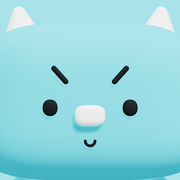
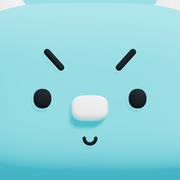
파비콘(투명 배경 깨두 머리) 추가, 앱 아이콘 정면 얼굴로
Claude-Session: https://claude.ai/code/session_01XV2fnkdfGEfNAj3q2V9NTe

diff --git a/index.html b/index.html
@@ -8,8 +8,8 @@
 <meta name="theme-color" content="#e4ebeb" media="(prefers-color-scheme: light)">
 <meta name="theme-color" content="#141a1c" media="(prefers-color-scheme: dark)">
 <link rel="manifest" href="manifest.webmanifest">
-<link rel="icon" href="icon-192.png?v=2" type="image/png">
-<link rel="apple-touch-icon" href="apple-touch-icon.png?v=2">
+<link rel="icon" href="favicon.ico?v=1" sizes="any"><link rel="icon" href="favicon.png?v=1" type="image/png">
+<link rel="apple-touch-icon" href="apple-touch-icon.png?v=3">
 <meta name="apple-mobile-web-app-capable" content="yes">
 <meta name="apple-mobile-web-app-title" content="Sonssies">
 <meta property="og:type" content="website">

diff --git a/sw.js b/sw.js
@@ -1,5 +1,5 @@
 // 오프라인에서도 열리도록: 처음 받은 파일(페이지·3D 엔진·글꼴)을 저장해 두고, 새 버전이 있으면 다음 방문 때 갱신
-const CACHE='sonssies-v7';
+const CACHE='sonssies-v8';
 const CORE=['./','./index.html','./manifest.webmanifest','./icon-192.png','./icon-512.png'];
 self.addEventListener('install',e=>{e.waitUntil(caches.open(CACHE).then(c=>c.addAll(CORE)));self.skipWaiting()});
 self.addEventListener('activate',e=>{e.waitUntil(caches.keys().then(ks=>Promise.all(ks.filter(k=>k!==CACHE).map(k=>caches.delete(k)))));self.clients.claim()});

diff --git a/tools/build_site.py b/tools/build_site.py
@@ -30,8 +30,8 @@ head='''<!doctype html>
 <meta name="theme-color" content="#e4ebeb" media="(prefers-color-scheme: light)">
 <meta name="theme-color" content="#141a1c" media="(prefers-color-scheme: dark)">
 <link rel="manifest" href="manifest.webmanifest">
-<link rel="icon" href="icon-192.png?v=2" type="image/png">
-<link rel="apple-touch-icon" href="apple-touch-icon.png?v=2">
+<link rel="icon" href="favicon.ico?v=1" sizes="any"><link rel="icon" href="favicon.png?v=1" type="image/png">
+<link rel="apple-touch-icon" href="apple-touch-icon.png?v=3">
 <meta name="apple-mobile-web-app-capable" content="yes">
 <meta name="apple-mobile-web-app-title" content="Sonssies">
 <meta property="og:type" content="website">
